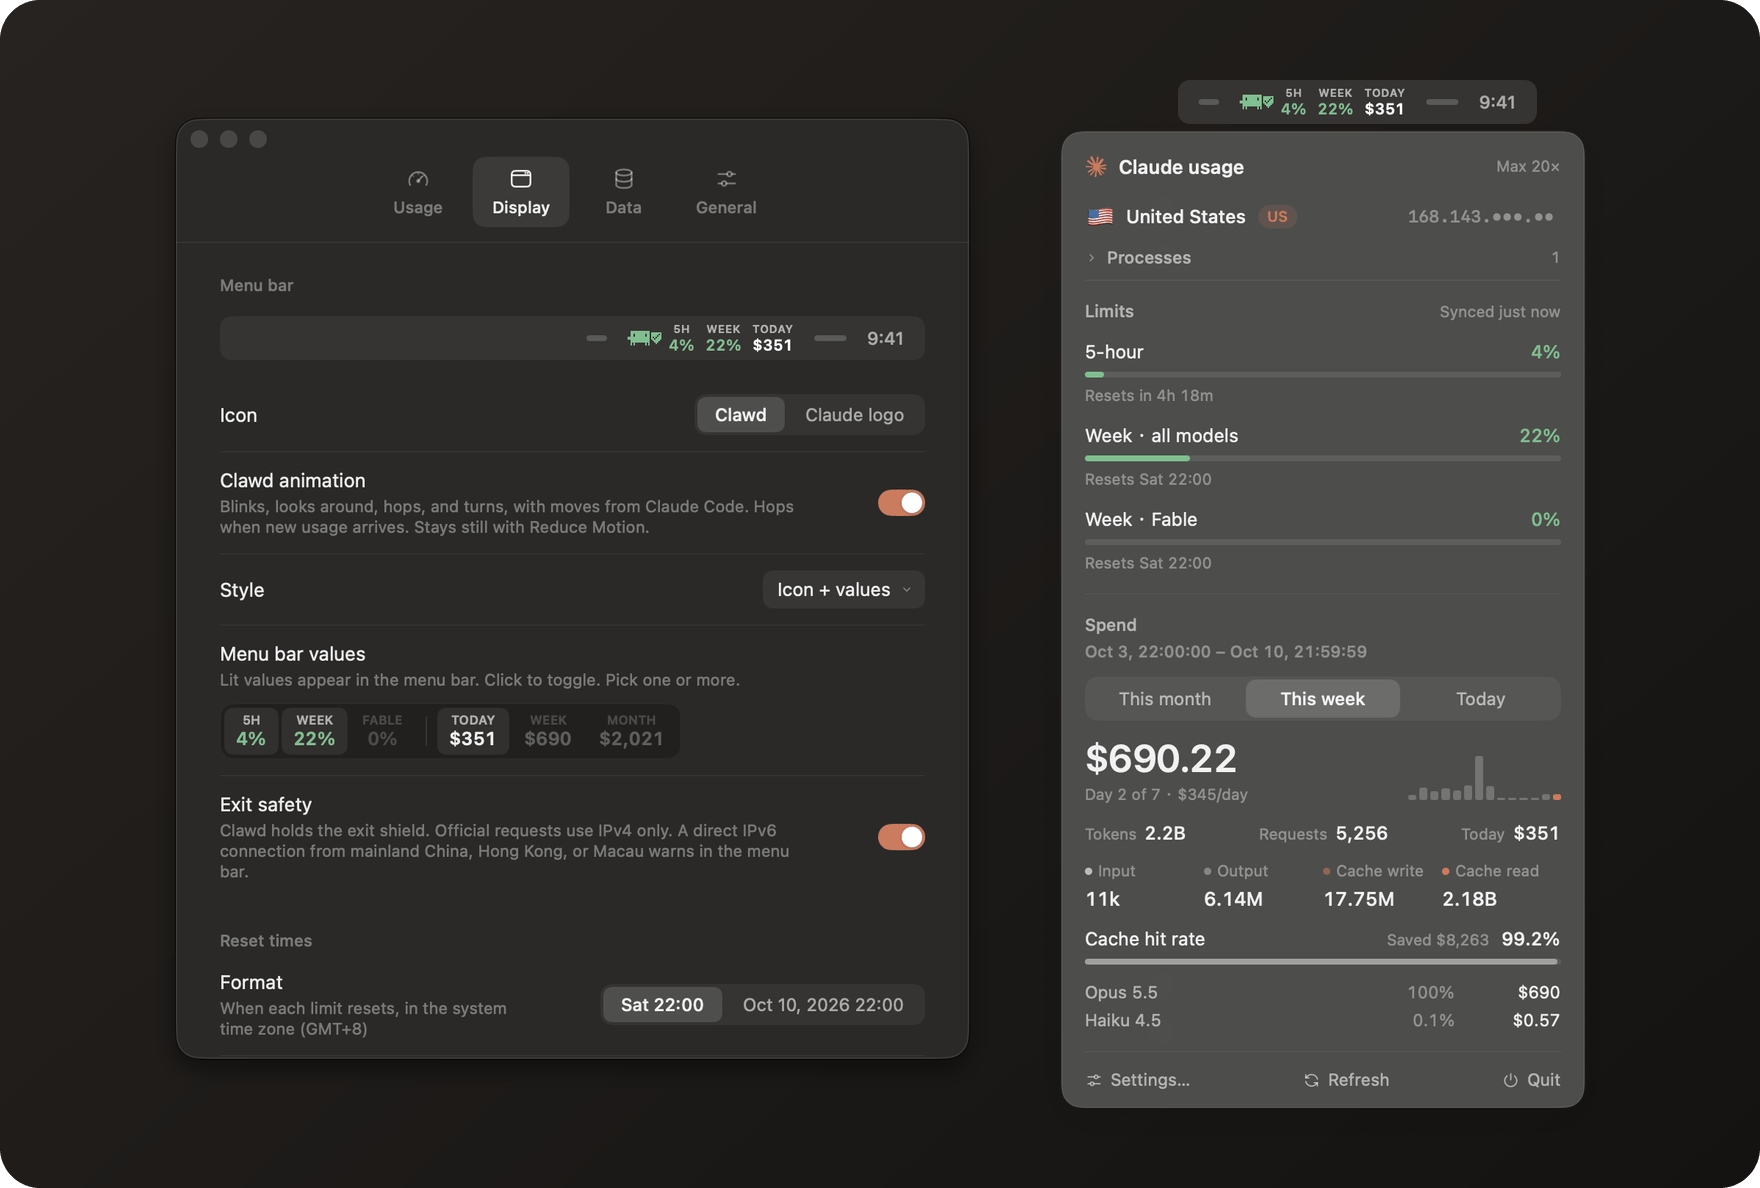
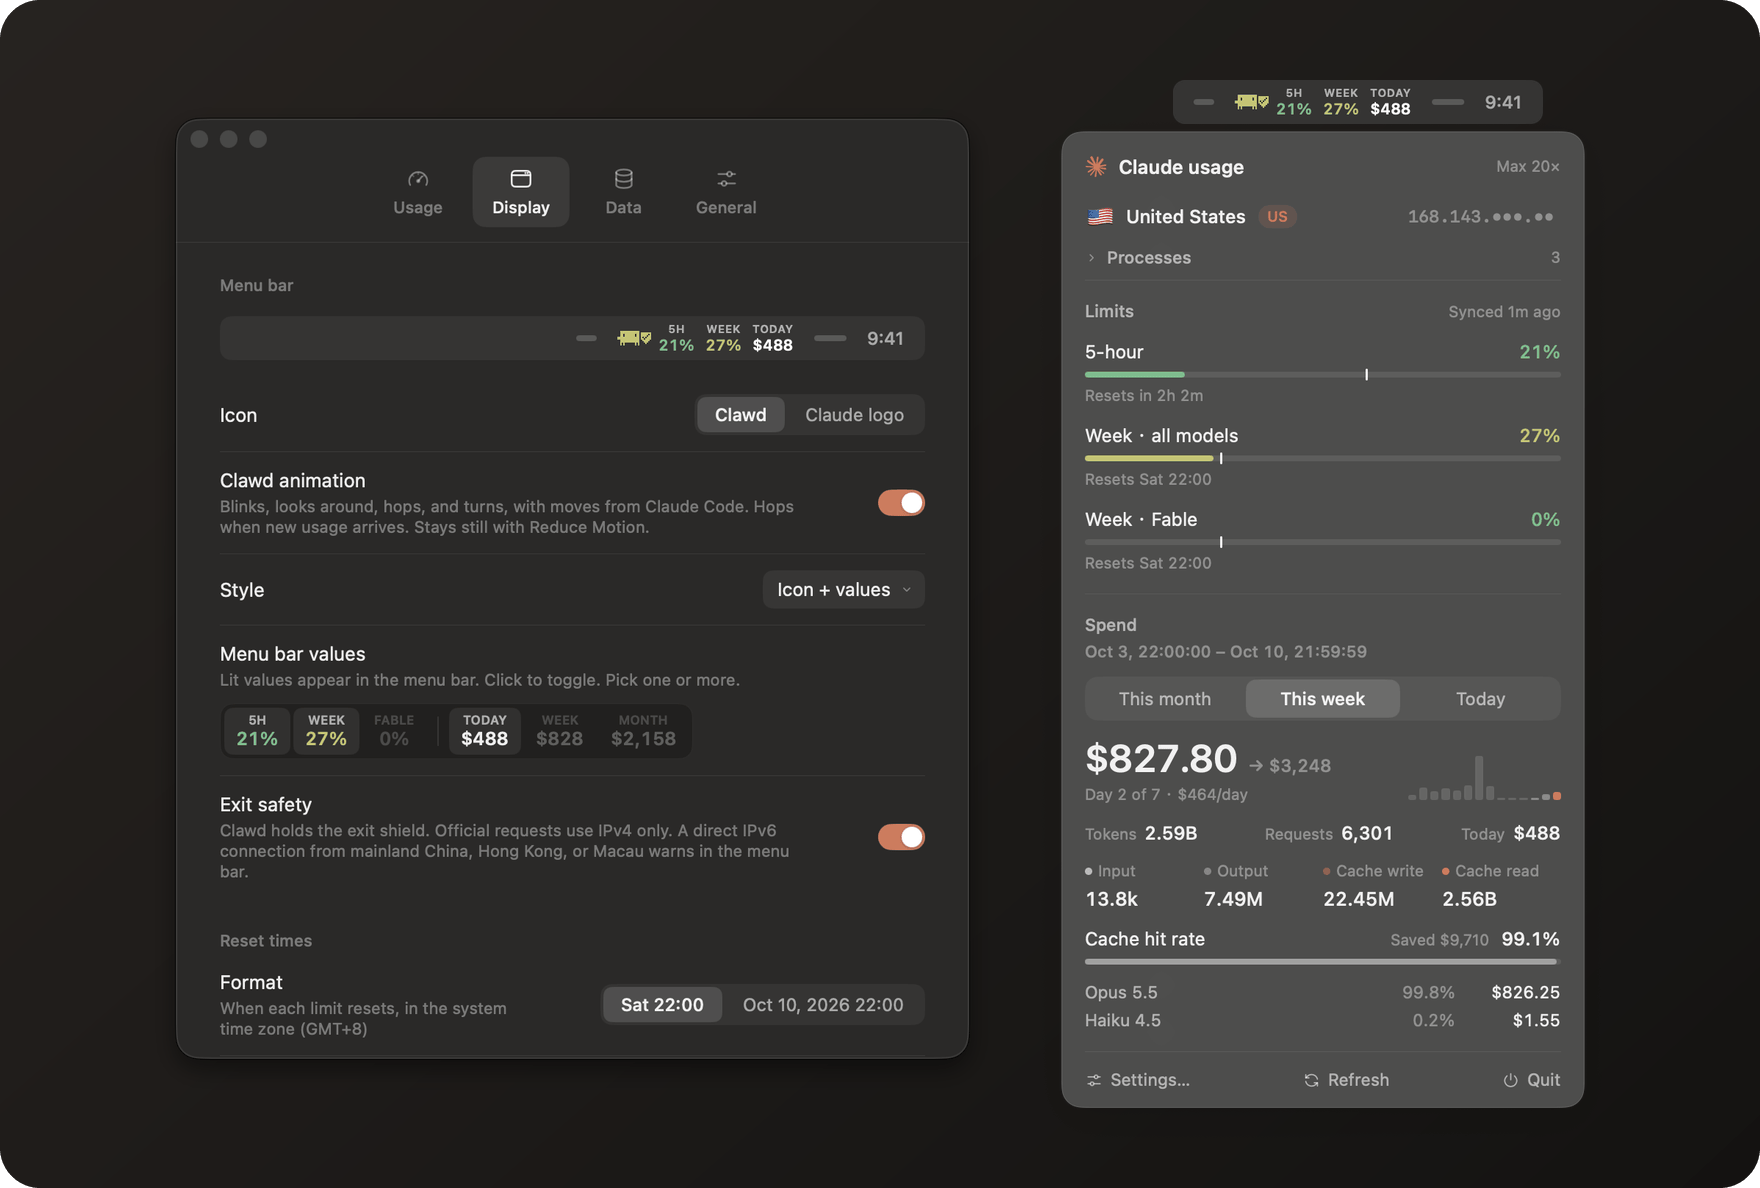
Describe the safe line, the projected spend and Clawd's shield in the README.
The panel and hero screenshots in both languages show the safe lines and the projected total.

diff --git a/README.md b/README.md
@@ -44,6 +44,20 @@ plus what your Claude Code sessions would cost at API prices. Native, private, a
 <tr>
 <td valign="top">
 
+**See a limit coming**<br>
+A safe line on the 5-hour and weekly bars shows how much can be used by now and still last until the reset. The 5-hour line follows the clock; the weekly line adds a seventh each day. Usage past it turns red, and pointing at a bar shows the line and what is left.
+
+</td>
+<td valign="top">
+
+**Clawd keeps watch**<br>
+Clawd holds the exit shield in its own pixel style and color, and the shield turns red when the exit is not safe. It blinks, looks around, and hops, with moves taken from Claude Code.
+
+</td>
+</tr>
+<tr>
+<td valign="top">
+
 **Checks when it matters**<br>
 Only while Claude Code is in use and usage is enough to move the numbers, at most one check every 5 minutes on average, so it stays clear of rate limits. Opening the panel refreshes right away when the numbers may have moved.
 
@@ -59,7 +73,7 @@ Confirms the exit Anthropic sees before every request, pauses in mainland China,
 <td valign="top">
 
 **Spend you can read**<br>
-API-equivalent cost for this week, the billing month, or today, with the token mix, cache savings, a per-model split, and a 14-day trend.
+API-equivalent cost for this week, the billing month, or today, with a projected total at the current pace, the token mix, cache savings, a per-model split, and a 14-day trend.
 
 </td>
 <td valign="top">
@@ -77,7 +91,7 @@ Renews the Claude Code login the way Claude Code does, with the same locks, so t
 <tr>
 <td width="40%" align="center" valign="top">
 <img src="docs/images/en/panel.png" alt="Menu bar panel"><br>
-<sub><b>The panel</b> · limits, spend, and processes</sub>
+<sub><b>The panel</b> · limits with safe lines, spend, and processes</sub>
 </td>
 <td width="60%" align="center" valign="top">
 <img src="docs/images/en/settings-display.png" alt="Settings, Display"><br>

diff --git a/README.zh-CN.md b/README.zh-CN.md
@@ -44,6 +44,20 @@
 <tr>
 <td valign="top">
 
+**离限流还有多远**<br>
+5 小时和每周额度的进度条上有一条安全线：此刻用到这里为止，就能撑到重置。5 小时随时间走，每周按天算、每天多 1/7。超线的部分变红，鼠标指上去能看到安全线是多少、还能用多少。
+
+</td>
+<td valign="top">
+
+**Clawd 守着出口**<br>
+菜单栏里的 Clawd 用同一套像素画举着出口盾牌，平时和它同色，出口不安全时变红；它会眨眼、张望、蹦跳，动作都取自 Claude Code。
+
+</td>
+</tr>
+<tr>
+<td valign="top">
+
 **该查的时候才查**<br>
 只在 Claude Code 正在使用、消耗够让数字变化时查询，平均每 5 分钟最多 1 次，避开官方限流；点开面板时数字可能变了就立即刷新。
 
@@ -59,7 +73,7 @@
 <td valign="top">
 
 **花费一目了然**<br>
-本周、本月周期或当天的 API 等价费用，外加 Token 构成、缓存节省、按模型拆分和近 14 天趋势。
+本周、本月周期或当天的 API 等价费用和照现在速度的预计总额，外加 Token 构成、缓存节省、按模型拆分和近 14 天趋势。
 
 </td>
 <td valign="top">
@@ -77,7 +91,7 @@
 <tr>
 <td width="40%" align="center" valign="top">
 <img src="docs/images/zh/panel.png" alt="菜单栏面板"><br>
-<sub><b>面板</b> · 额度、花费与进程</sub>
+<sub><b>面板</b> · 额度与安全线、花费与进程</sub>
 </td>
 <td width="60%" align="center" valign="top">
 <img src="docs/images/zh/settings-display.png" alt="设置 › 显示"><br>
